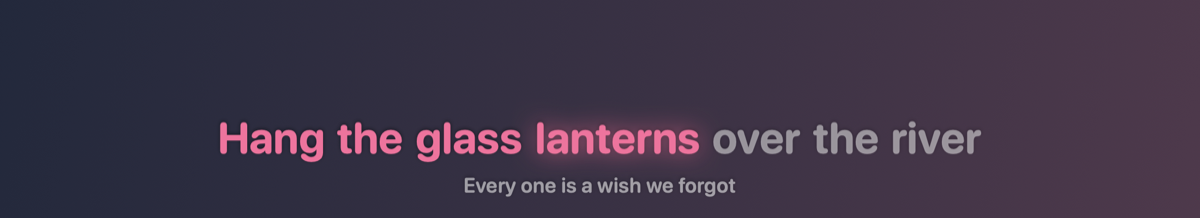
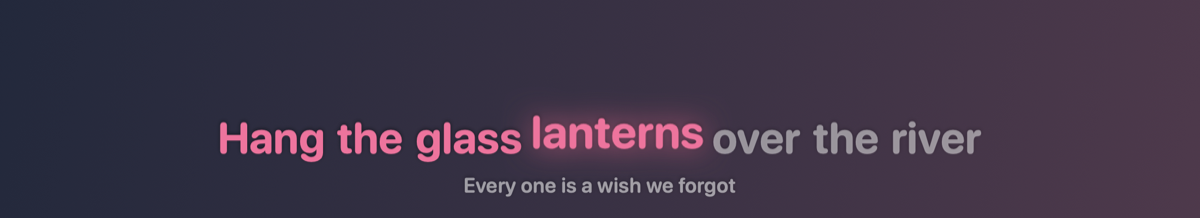
Document karaoke screen and lyric animations, refresh screenshots

Changed region(s): [[0.4317, 0.5229, 0.5858, 0.7156]]

diff --git a/README.md b/README.md
@@ -11,7 +11,13 @@ into light and lyrics:
 - **Synced lyrics** — the current line on screen with its words lighting up one
   at a time, in three styles: **Beam** (one big line above the Dock),
   **Cascade** (previous / current / next on a frosted card) and **Capsule** (a
-  compact pill under the menu bar).
+  compact pill under the menu bar), with three animations: **Light up**,
+  **Pop** (the sung word springs up; new lines rise in word by word) and
+  **Karaoke** (color sweeps through each word as it's sung).
+- **Karaoke screen** — a full-screen karaoke view on your second display:
+  huge lyrics with a word-by-word color sweep, the next two lines underneath,
+  a countdown through instrumental breaks, blurred album art that blooms on the
+  beat, and the track's progress.
 - **Menu bar only** — no Dock icon; one popover holds every setting.
 - **Experimental: lock screen** — optionally keeps the glow and a now-playing
   lyrics card visible over the lock screen (private macOS APIs, off by
@@ -34,6 +40,15 @@ Lyrics styles: **Beam**, **Cascade**, **Capsule**. The current word glows and th
 <img src="docs/images/lyrics-beam.png" width="700" alt="Beam style: one large line with the first four words lit">
 <img src="docs/images/lyrics-cascade.png" width="700" alt="Cascade style: lyric card with a gradient border">
 <img src="docs/images/lyrics-capsule.png" width="560" alt="Capsule style: compact pill with album art">
+
+Animations: **Pop** lifts the word being sung; **Karaoke** sweeps color through it.
+
+<img src="docs/images/animation-pop.png" width="560" alt="Pop animation: the current word lifted and glowing">
+<img src="docs/images/animation-karaoke.png" width="560" alt="Karaoke animation: color sweeping through the word being sung">
+
+The karaoke screen on a second display:
+
+<img src="docs/images/karaoke-screen.png" width="760" alt="Full-screen karaoke view: large lyric line half swept in pink, next lines below, track and progress at the bottom">
 
 <sub>Rendered offscreen by the app itself (`YTMGlow --render-previews <dir>`) with sample lyrics, so they're real views, not mockups.</sub>
 
@@ -74,9 +89,14 @@ Click the menu bar icon:
 
 - **Edge glow**: on/off, *Music sync* vs *Steady*, thickness, intensity,
   album-art vs custom colors (two color wells).
-- **Lyrics**: on/off, style (Beam / Cascade / Capsule), album-art vs custom
-  highlight color, size, a timing offset (+ shows lyrics later), and *Keep
-  display awake while playing*.
+- **Lyrics**: on/off, style (Beam / Cascade / Capsule), animation (Light up /
+  Pop / Karaoke), album-art vs custom highlight color, size, a timing offset
+  (+ shows lyrics later), and *Keep display awake while playing*.
+- **Karaoke screen**: on/off and which display (*Automatic* = the first display
+  without the menu bar; with only one display it stays off unless you pick
+  it). It opens while music plays, stays through pauses up to 30 s, and closes
+  when the music stops. Press **Esc** (click it first) or the **×** to close.
+  It never takes keyboard focus on its own.
 - **Show on lock screen** (experimental, private API).
 - **Open at login** (uses `SMAppService`; macOS may ask you to allow it in
   System Settings → General → Login Items, and the popover links there).

diff --git a/docs/MANUAL_QA.md b/docs/MANUAL_QA.md
@@ -31,6 +31,21 @@ log stream --level info --predicate 'subsystem == "io.github.saandeepb.ytmglow"'
 - [ ] Brave, Edge and Arc: load the extension the same way and repeat a quick play/pause/seek check.
 - [ ] Two YTM tabs: the one you most recently started playing wins.
 
+## 1b. Karaoke screen and lyric animations
+
+- [ ] Lyrics → Animation: try **Light up**, **Pop** and **Karaoke** in each style. Pop lifts the word being sung without overlapping its neighbors; Karaoke sweeps color smoothly through each word, roughly with the singing.
+- [ ] With two displays, turn on **Karaoke screen** (Automatic). Play a song with synced lyrics: the second display fills with the karaoke view within ~1 s. Your current app keeps keyboard focus.
+- [ ] The current line sweeps word by word; the next two lines are below; the footer shows art, title, artist and a moving progress bar.
+- [ ] Instrumental break (a long intro works): four dots fill up toward the next line.
+- [ ] Beat sync on: the glow behind the lyrics swells with the bass.
+- [ ] Pause: "Paused" appears and the sweep freezes; resume within 30 s and it continues. Stay paused for 30 s: the screen closes. Play again: it reopens.
+- [ ] Seek forward/back: the screen jumps to the right line.
+- [ ] Track without synced lyrics: big album art and title with "No synced lyrics…".
+- [ ] Click the karaoke screen, then press Esc: it closes and the setting turns off. Hover: the × button appears and also closes it.
+- [ ] Pick a specific display in the popover; unplug it while playing: the karaoke screen moves to another non-main display or closes. With only the built-in display and *Automatic*, it never appears.
+- [ ] Full-screen apps on the other display, and Spaces switching: the karaoke screen stays on its display.
+- [ ] Activity Monitor while the karaoke screen plays: note YTM Glow and WindowServer CPU (Karaoke redraws the current line up to 60 times a second; on the built-in display YTM Glow measured ~1.4 %).
+
 ## 2. Recovery
 
 - [ ] Quit the app while music plays, relaunch it: within ~5 s glow and lyrics return without touching the browser.
